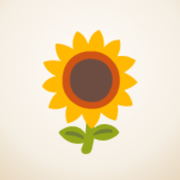
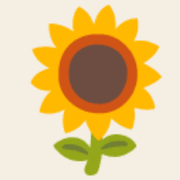
App 圖示改成滿版底色、向日葵放大
Claude-Session: https://claude.ai/code/session_01LfbQjq9Qd56uFV6H2tTUsn

diff --git a/index.html b/index.html
@@ -11,8 +11,8 @@
 <meta name="apple-mobile-web-app-capable" content="yes">
 <meta name="apple-mobile-web-app-status-bar-style" content="default">
 <link rel="manifest" href="manifest.webmanifest">
-<link rel="apple-touch-icon" href="icons/apple-touch-icon.png">
-<link rel="icon" type="image/png" sizes="32x32" href="icons/favicon-32.png">
+<link rel="apple-touch-icon" href="icons/apple-touch-icon.png?v=2">
+<link rel="icon" type="image/png" sizes="32x32" href="icons/favicon-32.png?v=2">
 <link rel="preconnect" href="https://fonts.googleapis.com">
 <link href="https://fonts.googleapis.com/css2?family=Noto+Serif+TC:wght@600;700&display=swap" rel="stylesheet">
 <style>

diff --git a/sw.js b/sw.js
@@ -1,7 +1,7 @@
 /* 🌻芊的工具檯：離線使用
    - 只快取 App 本身的檔案（頁面、圖示、字型），不碰使用者資料（localStorage / IndexedDB）。
    - 有網路時一律先抓最新版，抓不到才用快取，所以改版會直接生效。 */
-const CACHE = "qian-tools-v1";
+const CACHE = "qian-tools-v2";
 const CORE = ["./", "./index.html", "./manifest.webmanifest", "./icons/icon-192.png", "./icons/icon-512.png", "./icons/apple-touch-icon.png"];
 
 self.addEventListener("install", e => {
